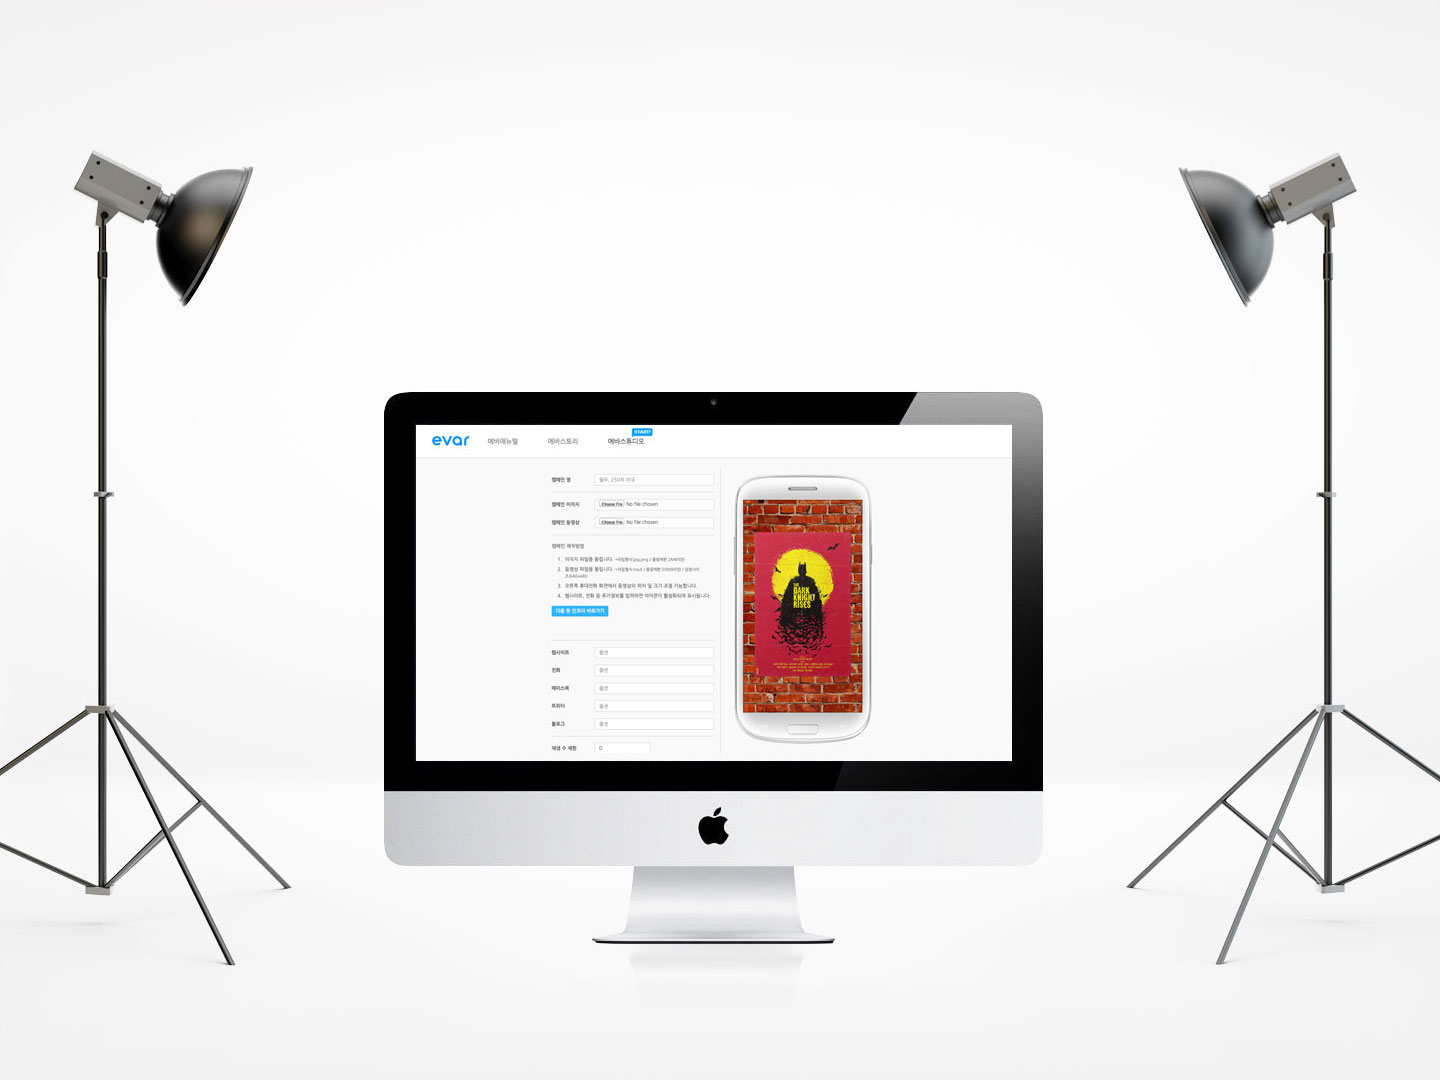
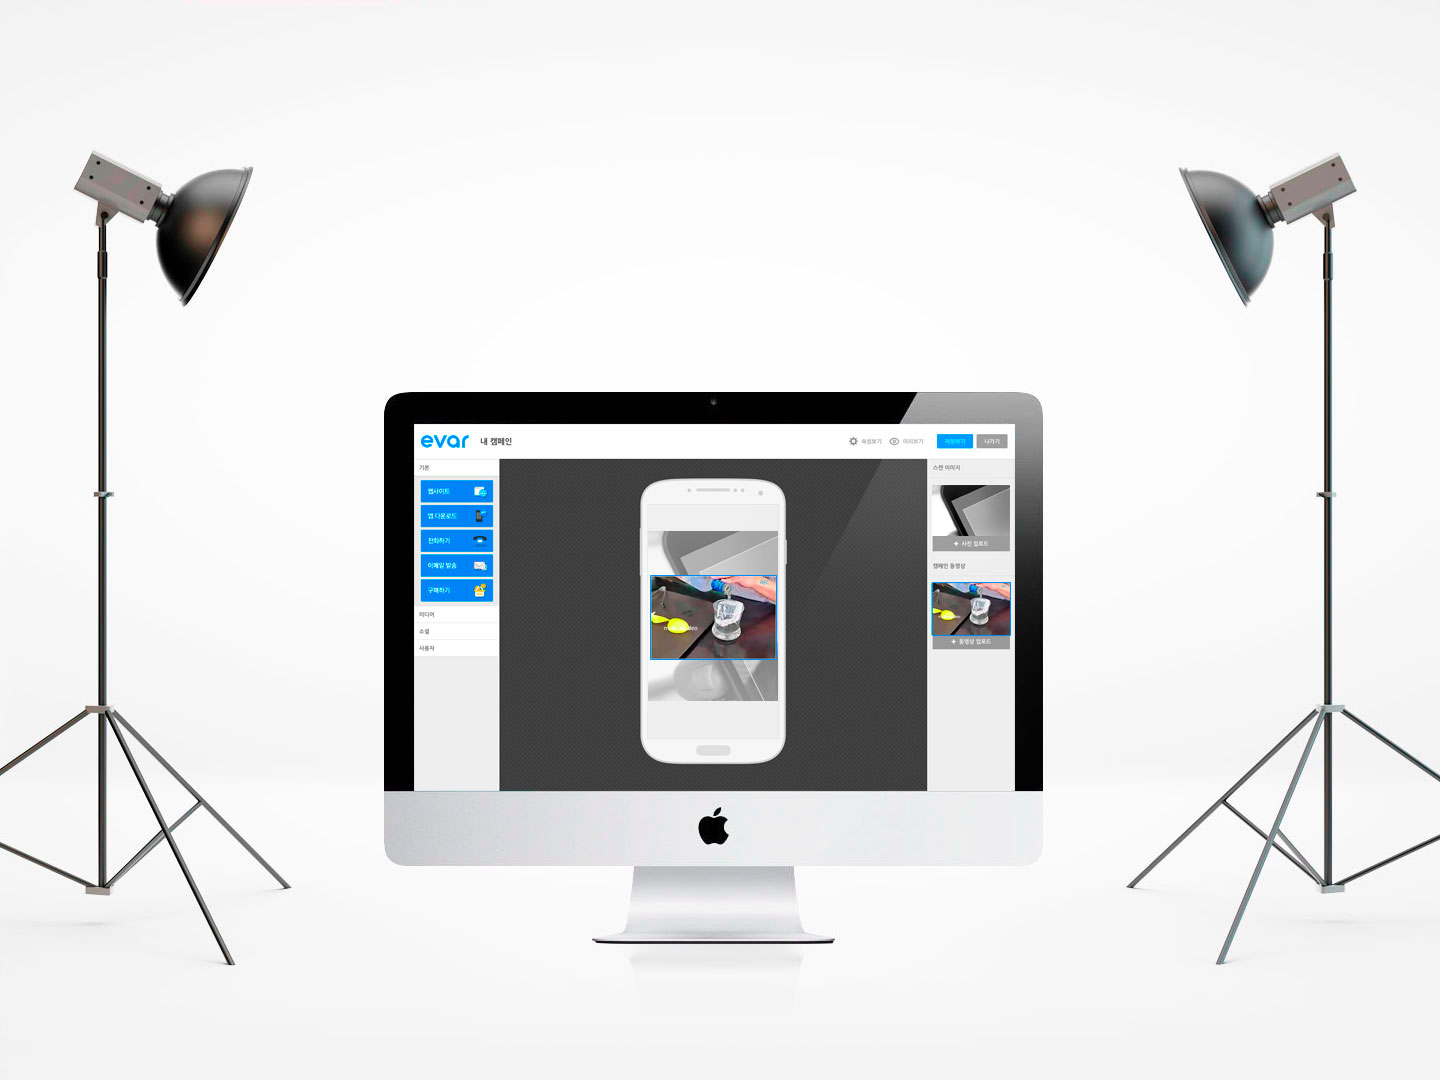
[CONTENTS] 안드로이드 목업 및 그 외 이미지 변경
* 랜딩 스튜디오 배경 이미지 변경
* 안드로이드 목업 큰 사이즈

Changed region(s): [[0.2812, 0.3972, 0.7188, 0.7333]]

diff --git a/_sass/evar/_builder.scss b/_sass/evar/_builder.scss
@@ -320,22 +320,23 @@ $builder-header-height: 90px;
     position: absolute;
     top: 0;
     left: 50%;
-    width: 375px;
-    height: 729px;
-    background-image: url(../images/builder/android-mockup.png);
-    margin-top: 50px;
-    margin-bottom: 50px;
-    margin-left: -187.5px;
+    width: 450px;
+    height: 873px;
+    background-image: url(../images/builder/android-mockup-big.png);
+    margin-top: 25px;
+    margin-bottom: 25px;
+    margin-left: -225px;
   }
 
   #work-space {
     position: absolute;
-    top: 67px;
-    left: 20px;
-    width: 334px;
-    height: 597px;
+    top: 85px;
+    left: 28px;
+    width: 395px;
+    height: 705px;
     background-color: white;
     background-color: rgba(255,255,255,.5);
+    border: 1px solid #ddd;
   }
 }
 
